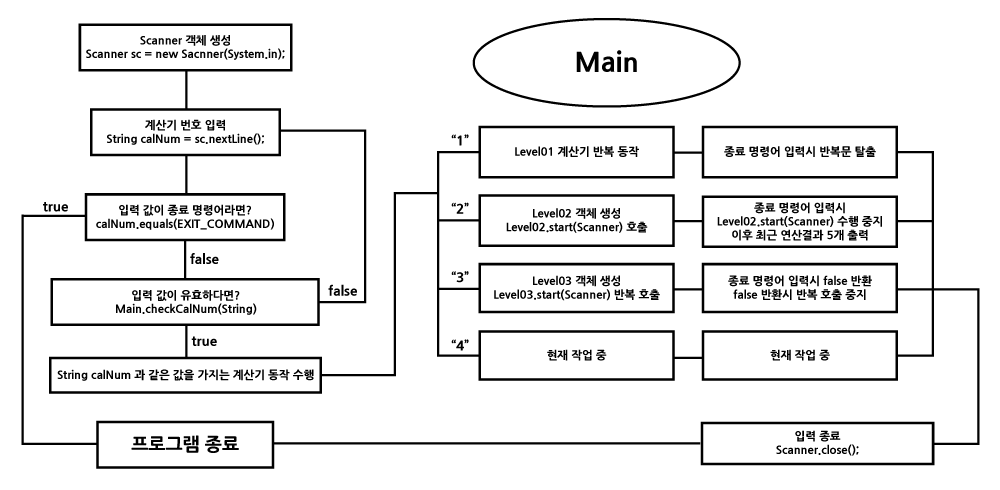
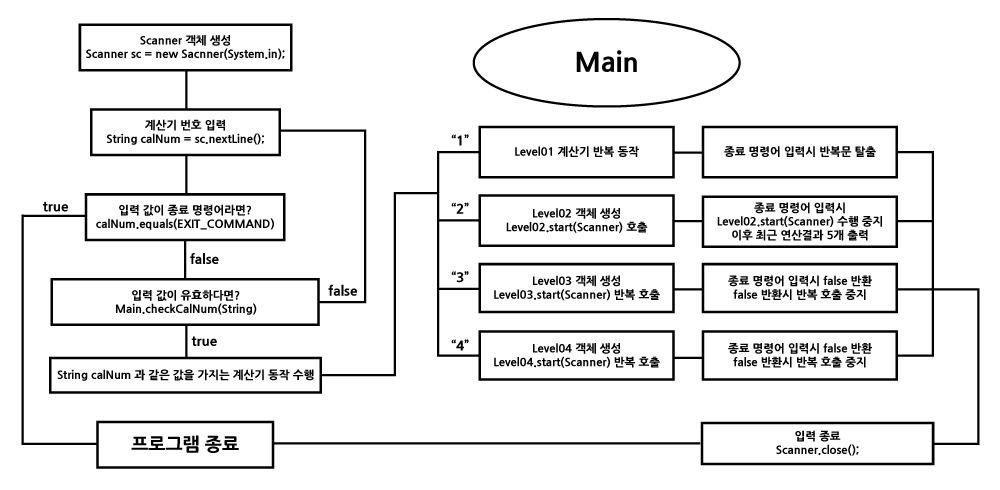
add level04-calculator

Changed region(s): [[0.713, 0.7041, 0.868, 0.7653], [0.496, 0.7041, 0.682, 0.7653]]

diff --git a/java/calculator/src/main/java/calculator/level04/Level04.java b/java/calculator/src/main/java/calculator/level04/Level04.java
@@ -1,0 +1,75 @@
+package calculator.level04;
+
+import calculator.level03.calculate.Calculator;
+import calculator.level04.validation.ValidInput;
+
+import java.util.Scanner;
+
+import static calculator.enums.SystemMessage.*;
+
+// 모든 Level 의 요구사항에는 없지만 개인적으로 필요하다 생각한 부분을 반영한 Level04 계산기 클래스
+public class Level04 {
+
+    // level03/calculate/Calculator 객체 재사용
+    private final Calculator<Double> cal = new Calculator<>();
+
+    // Exception 을 활용해 추가한 level04/validation/ValidInput 객체 사용
+    private final ValidInput valid = new ValidInput();
+
+    // Scanner 객체를 파라미터로 전달 받아 계산기 동작을 수행하는 메서드
+    // 기본적으로 수행을 반복하도록 true 를 반환, 수행 종료시 false 반환
+    public boolean start(Scanner sc) {
+
+        String input = sc.nextLine();
+
+        // 입력 값과 종료 명령어가 같다면 false 반환, 계산기 반복 호출을 멈춤
+        if (valid.validExit(input)) return false;
+
+        // 입력 값의 유효성을 검증해 유효하지 않다면 예외가 발생, 발생한 예외를 처리
+        // 예외처리 후 true 를 반환해 계산기 처음으로 돌아가 다시 입력부터 시작
+        try {
+            valid.validCalculation(input);
+        } catch (Exception e) {
+            System.out.println(e.getMessage());
+            return true;
+        }
+
+        // 연산자, 피연산자 Calculator 객체 필드에 저장
+        setCalculation(input);
+
+        // 연산 수행 -> 최근 연산 결과(최대 5개) 출력 -> 현재 연산결과 보다 큰 최근 연산결과 출력
+        double result = cal.calculate();   // 연산 수행
+        printResult(result);        // 연산 결과 출력
+        recentlyResults();          // 최근 연산 결과(최대 5개, 최근 순)
+        bigRecentlyResults(result);    // 현재 연산 결과보다 큰 최근 연산 결과들 출력
+        cal.saveResult(result);     // 현재 연산 결과 Calculator 객체의 Collection 필드에 저장
+
+        return true;
+    }
+
+    //
+    private void bigRecentlyResults(double result) {
+        System.out.println(
+                BIGGER_RESULTS.getMessage() + cal.getBiggerResults(result) + "\n"
+                + RESULT_WINDOW_DIVIDER.getMessage()
+        );
+    }
+
+    private void recentlyResults() {
+        System.out.println(
+                RECENTLY_RESULTS.getMessage() + cal.getCalculateResults()
+        );
+    }
+
+    private void printResult(double result) {
+        System.out.println(CALCULATE_RESULT.getMessage() + result);
+    }
+
+    private void setCalculation(String input) {
+        String[] operation = input.split(" ");
+        cal.setFirstNum(Double.parseDouble(operation[0]));
+        cal.setOperation(operation[1]);
+        cal.setSecondNum(Double.parseDouble(operation[2]));
+    }
+
+}

diff --git a/java/calculator/src/main/java/calculator/enums/SystemMessage.java b/java/calculator/src/main/java/calculator/enums/SystemMessage.java
@@ -1,18 +1,20 @@
-package calculator.level03.enums;
+package calculator.enums;
 
 // '열거형 클래스' enum 을 활용한 시스템메시지 설정
 public enum SystemMessage {
     SELECT_CALCULATOR(
             "사용할 계산기의 레벨을 입력\n" +
-            "계산기 목록 : 1 - level01, 2 - level02, 3 - level03"
+            "계산기 목록 : 1 - level01, 2 - level02, 3 - level03, 4 - level04"
     ),
     ERROR_SELECT_CALCULATOR(
             "계산기 선택 오류 : 사용할 계산기의 레벨을 입력\n" +
-            "사용 가능 계산기 : 1 - level01, 2 - level02, 3 - level03"
+            "사용 가능 계산기 : 1 - level01, 2 - level02, 3 - level03, 4 -level04"
     ),
-    INPUT_GUIDE("연산 입력은 '피연산자 > 연산자 > 피연산자' 순으로 입력해주세요."),
+    THREE_INPUT_GUIDE("연산 입력은 '피연산자 > 연산자 > 피연산자' 순으로 입력해주세요."),
+    ONE_INPUT_GUIDE("연산 입력은 하나의 사칙연산을 공백으로 구분하여 입력해주세요. ex) 5 + 1, 5 * -5"),
     ERROR_INPUT_OPERAND("피연산자 입력 오류 : 입력 가능한 피연산자는 정수 또는 실수입니다."),
     ERROR_INPUT_OPERATOR("연산자 입력 오류 : 입력 가능한 연산자는 '+', '-', '*', '/' 입니다."),
+    ERROR_INPUT_CALCULATION("연산 입력 오류 : 사칙연산 하나를 연산형식에 맞춰 공백으로 구분해 입력해주세요. ex) 3 + 2, 5 * -2.5"),
     CALCULATE_RESULT("연산 결과 : "),
     INPUT_RETRY_PLEASE("처음부터 다시 입력해주세요."),
     RECENTLY_RESULTS("최근 계산 결과 : "),

diff --git a/java/calculator/src/main/java/calculator/Main.java b/java/calculator/src/main/java/calculator/Main.java
@@ -2,12 +2,13 @@ package calculator;
 
 import calculator.level02.Level02;
 import calculator.level03.Level03;
+import calculator.level04.Level04;
 
 import java.util.Scanner;
 import java.util.regex.Pattern;
 
-import static calculator.level03.enums.SystemMessage.*;
-import static calculator.level03.enums.ValidCriteria.*;
+import static calculator.enums.SystemMessage.*;
+import static calculator.enums.ValidCriteria.*;
 
 /**
  * 계산기(프로그램) 시작 클래스(= main 메서드)
@@ -37,7 +38,19 @@ public class Main {
 
         // 계산기를 사용할 경우 사용자에게 입력 방식 안내
         if (useOrNot) {
-            System.out.println(INPUT_GUIDE.getMessage());
+            if (calNum.equals(LEVEL_FOUR.getCriteria())) {
+                System.out.println(ONE_INPUT_GUIDE.getMessage());
+            } else {
+                System.out.println(THREE_INPUT_GUIDE.getMessage());
+            }
+        }
+
+        // Level04 계산기 동작
+        if (calNum.equals(LEVEL_FOUR.getCriteria())) {
+            Level04 level04 = new Level04();
+            while (true) {
+                if (!level04.start(sc)) break;
+            }
         }
 
         // Level03 계산기 동작

diff --git a/java/calculator/src/main/java/calculator/level04/validation/ValidInput.java b/java/calculator/src/main/java/calculator/level04/validation/ValidInput.java
@@ -1,0 +1,25 @@
+package calculator.level04.validation;
+
+import calculator.level04.exception.BadInputException;
+
+import java.util.regex.Pattern;
+
+import static calculator.enums.ValidCriteria.CALCULATION;
+import static calculator.enums.ValidCriteria.EXIT_COMMAND;
+
+// 입력 값의 유효성을 확인하는 클래스, Exception(예외)을 활용
+public class ValidInput {
+
+    // 입력 값이 종료 명령어인지 확인하는 메서드, 종료 명령어라면 true 를 아니라면 false 반환
+    public boolean validExit(String input) {
+        return input.equals(EXIT_COMMAND.getCriteria());
+    }
+
+    // 입력 값의 유효성을 검증하는 메서드, 유효하지 않을 경우 BadInputException 발생
+    public void validCalculation(String input) throws BadInputException {
+        if (!Pattern.matches(CALCULATION.getCriteria(), input)) {
+            throw new BadInputException();
+        }
+    }
+
+}

diff --git a/java/calculator/src/main/java/calculator/enums/ValidCriteria.java b/java/calculator/src/main/java/calculator/enums/ValidCriteria.java
@@ -1,13 +1,15 @@
-package calculator.level03.enums;
+package calculator.enums;
 
 // 유효성 판단의 기준이 되는 값들을 열거한 enum 클래스
 public enum ValidCriteria {
-    CALCULATOR_NUMBER("[1-3]"), // 사용 가능한 계산기 값
+    CALCULATOR_NUMBER("[1-4]"), // 사용 가능한 계산기 값
     LEVEL_ONE("1"),  // level01 계산기를 구분하는 값
     LEVEL_TWO("2"),  // level02 계산기를 구분하는 값
     LEVEL_THREE("3"), // level03 계산기를 구분하는 값
+    LEVEL_FOUR("4"), // level04 계산기를 구분하는 값
     OPERAND("^[-+]?(0|[1-9][0-9]*)(\\.[0-9]+)?$"),  // 피연산자(정수 or 실수)
     OPERATOR("[+\\-*/]"),   // 연산자(연산기호)
+    CALCULATION("^([-+]?(0|[1-9][0-9]*)(\\.[0-9]+)?)[' '][+\\-*/][' ']([-+]?(0|[1-9][0-9]*)(\\.[0-9]+)?)$"),   // 하나의 사칙연산
     EXIT_COMMAND("exit"),   // 계산기 종료 명령어
     ;
 

diff --git a/java/calculator/src/main/java/calculator/level03/validation/ValidInput.java b/java/calculator/src/main/java/calculator/level03/validation/ValidInput.java
@@ -2,8 +2,8 @@ package calculator.level03.validation;
 
 import java.util.regex.Pattern;
 
-import static calculator.level03.enums.SystemMessage.*;
-import static calculator.level03.enums.ValidCriteria.*;
+import static calculator.enums.SystemMessage.*;
+import static calculator.enums.ValidCriteria.*;
 
 // 입력 값의 유효성을 확인하는 클래스, Enum 클래스의 열거 상수를 사용함
 public class ValidInput {

diff --git a/java/calculator/src/main/java/calculator/level04/exception/BadInputException.java b/java/calculator/src/main/java/calculator/level04/exception/BadInputException.java
@@ -1,0 +1,13 @@
+package calculator.level04.exception;
+
+import static calculator.enums.SystemMessage.ERROR_INPUT_CALCULATION;
+import static calculator.enums.SystemMessage.RESULT_WINDOW_DIVIDER;
+
+public class BadInputException extends Exception {
+
+    public BadInputException() {
+        super(ERROR_INPUT_CALCULATION.getMessage() + "\n" +
+                RESULT_WINDOW_DIVIDER.getMessage());
+    }
+
+}

diff --git a/java/calculator/src/main/java/calculator/level03/calculate/Calculator.java b/java/calculator/src/main/java/calculator/level03/calculate/Calculator.java
@@ -4,7 +4,7 @@ import java.util.LinkedList;
 import java.util.List;
 import java.util.Queue;
 
-import static calculator.level03.enums.Operator.*;
+import static calculator.enums.Operator.*;
 
 // 요구사항은 정수(Integer) 입력에서 실수(Double) 입력으로 바뀌어, 타입을 선택할 수 있는 Generic 클래스 생성
 public class Calculator<T extends Number> {

diff --git a/java/calculator/src/main/java/calculator/level03/Level03.java b/java/calculator/src/main/java/calculator/level03/Level03.java
@@ -5,7 +5,7 @@ import calculator.level03.validation.ValidInput;
 
 import java.util.Scanner;
 
-import static calculator.level03.enums.SystemMessage.*;
+import static calculator.enums.SystemMessage.*;
 
 // Level03 계산기의 수행 흐름 로직을 작성한 클래스
 public class Level03 {

diff --git a/java/calculator/src/main/java/calculator/enums/Operator.java b/java/calculator/src/main/java/calculator/enums/Operator.java
@@ -1,4 +1,4 @@
-package calculator.level03.enums;
+package calculator.enums;
 
 // 사용 연산자 값을 설정하는 Enum 클래스
 public enum Operator {
